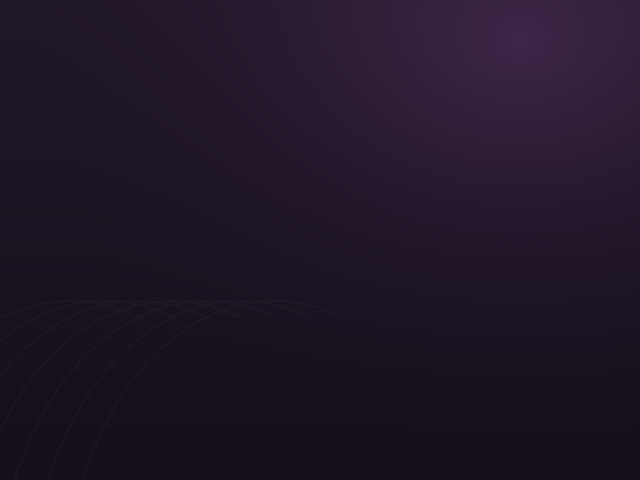
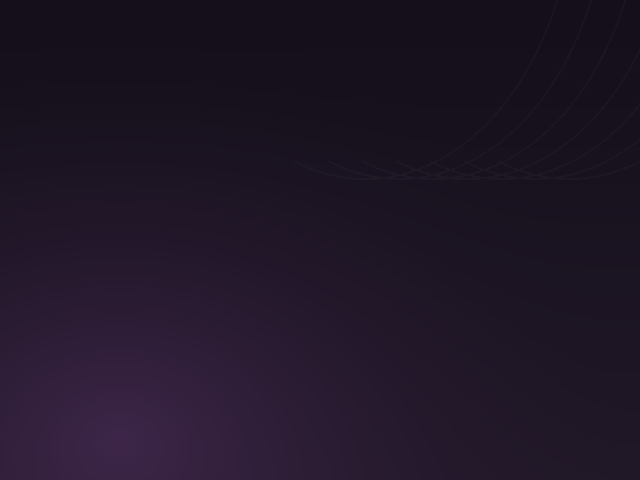
Turn Onion theme backgrounds right way up like OnionOS
Claude-Session: https://claude.ai/code/session_01RvKiEDRYuXZQCDsPdKRPea

Changed region(s): [[0.4688, 0.0, 1.0, 0.3125], [0.0, 0.6875, 0.5312, 1.0]]

diff --git a/frogui/onion_theme.c b/frogui/onion_theme.c
@@ -850,6 +850,21 @@ static const OImg *image(int id) {
     }
     if (skin_path_ex(name, path, sizeof path, !theme_only_image(id)))
       img_load_file(im, path, 0, 0);
+    /* Miyoo themes store background.png upside down (stock MainUI blits it
+     * straight to the rotated panel); Onion turns it round on load too. */
+    if (id == IMG_BACKGROUND && im->px) {
+      int n = im->w * im->h;
+      for (int i = 0, j = n - 1; i < j; i++, j--) {
+        uint16_t p = im->px[i];
+        im->px[i] = im->px[j];
+        im->px[j] = p;
+        if (im->a) {
+          uint8_t t = im->a[i];
+          im->a[i] = im->a[j];
+          im->a[j] = t;
+        }
+      }
+    }
     im->loaded = 1;
   }
   return im->px ? im : NULL;

diff --git a/tools/onion_theme/make_shallotsos_theme.py b/tools/onion_theme/make_shallotsos_theme.py
@@ -485,7 +485,8 @@ def change_sound(path):
 def main():
     out = Path(sys.argv[1]) if len(sys.argv) > 1 else ROOT / "assets/onion/Themes/ShallotsOS"
     skin = out / "skin"
-    save(background(), skin / "background.png")
+    # Stored upside down, as Miyoo themes are: Onion and ShallotsOS turn it round.
+    save(background().rotate(180), skin / "background.png")
     save(bar(60), skin / "bg-title.png")
     save(bar(60, top_line=True), skin / "tips-bar-bg.png")
     save(gs_top_bar(), skin / "extra/gs-top-bar.png")

diff --git a/SHALLOTSOS_CHECKLIST.md b/SHALLOTSOS_CHECKLIST.md
@@ -45,6 +45,8 @@ Latest test build:
 5. Music/Videos/Books/Images folders at the card root: files show up under
    Apps; Books opens EPUB/PDF (needs `cubegm/ebook` from TreeFrogUI).
 6. In-game toast after a sleep power-off (rounded card, no cut-off).
+7. Picture themes such as BMO Noire: backgrounds the right way up (the
+   "FILE EDIT VIEW HELP" bar at the top, hints at the bottom).
 
 ## Done
 
@@ -61,6 +63,10 @@ Latest test build:
       Settings > Appearance > OnionOS Theme
 - [x] Default "ShallotsOS" theme and its generator script, plus the Exo 2 font
 - [x] Theme asset test (`tests/test_onion_theme.sh`) and docs
+- [x] `background.png` turned 180° on load like Onion (Miyoo themes store it
+      upside down: 50 of the 56 picture backgrounds in the official theme
+      collection); fixes e.g. BMO Noire's mirrored bottom bar. The ShallotsOS
+      theme's background is stored the Miyoo way too
 - [x] Classic (non-Onion) UI left pixel-identical to upstream
 - [x] ShallotsOS boot logo replaces the TreeFrogUI one (both panel formats,
       from `tools/onion_theme/make_boot_logo.py`); the overlay ships the
